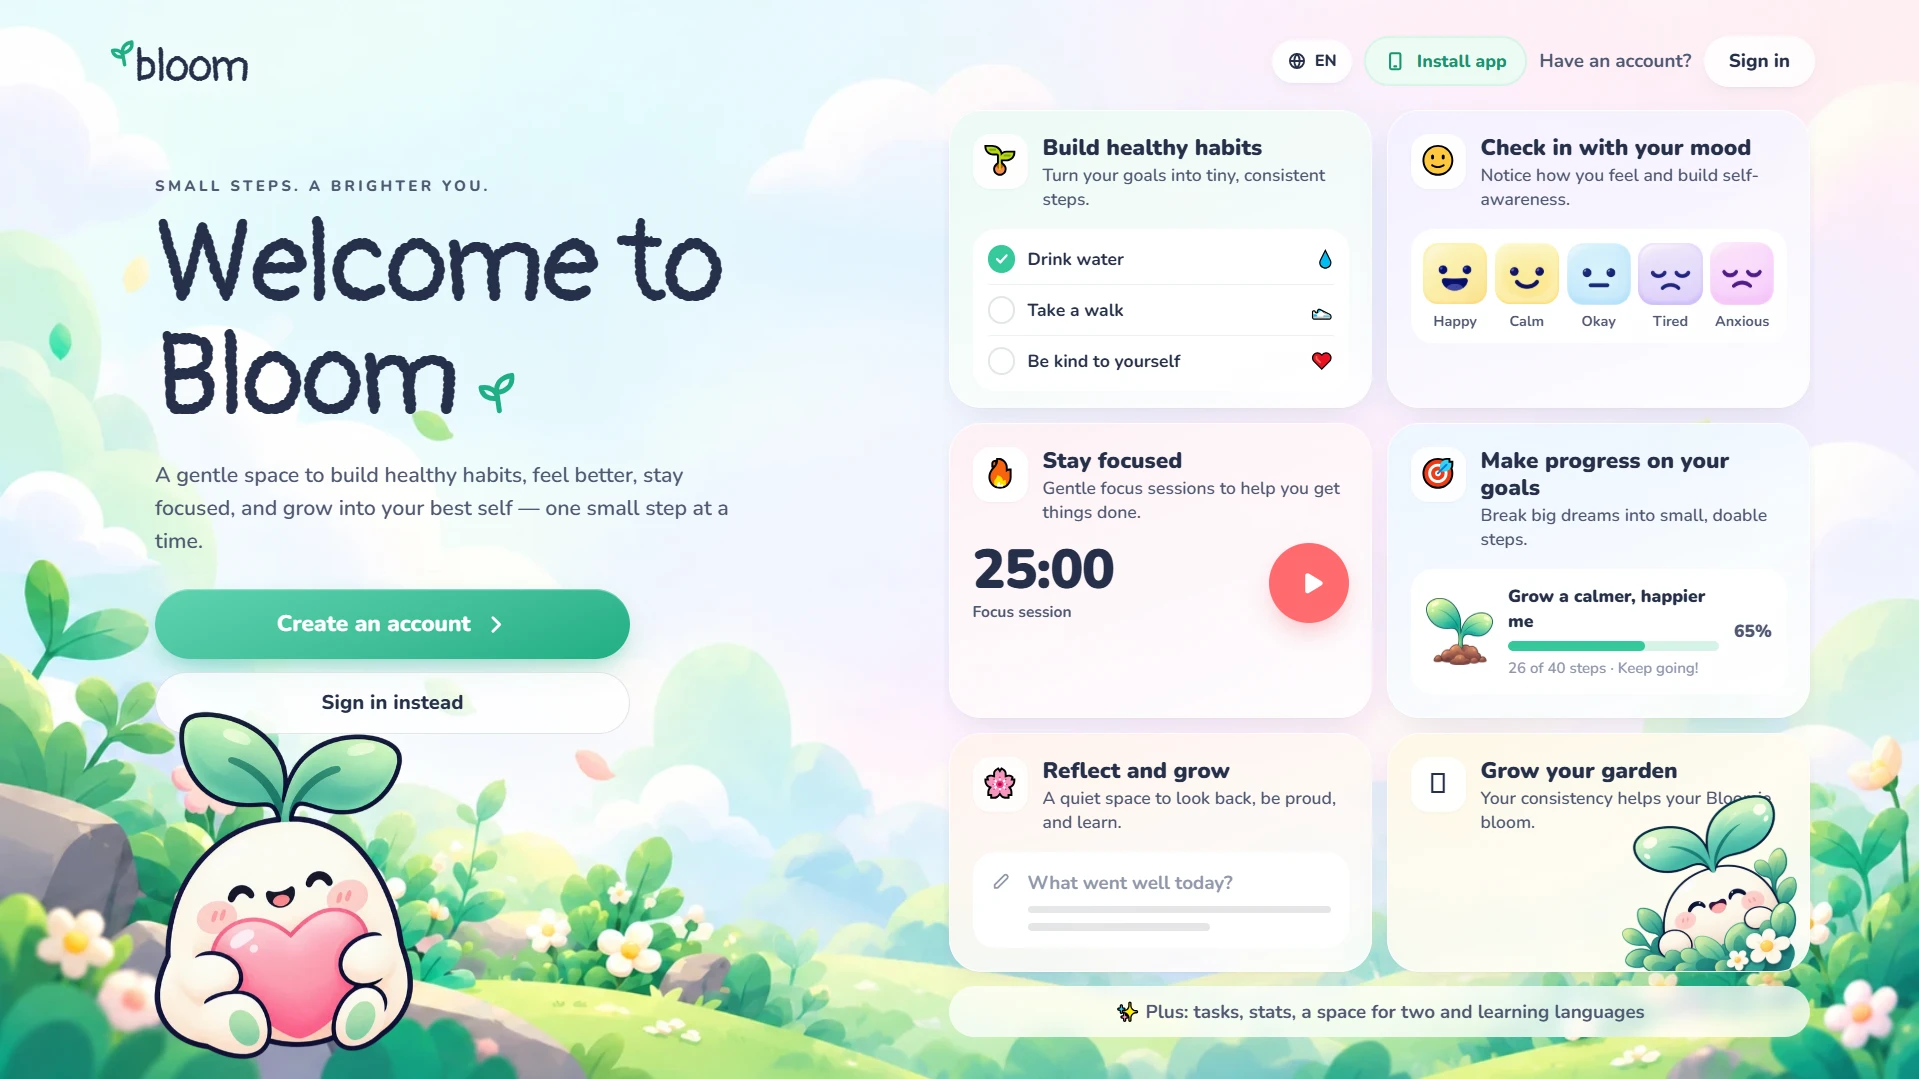
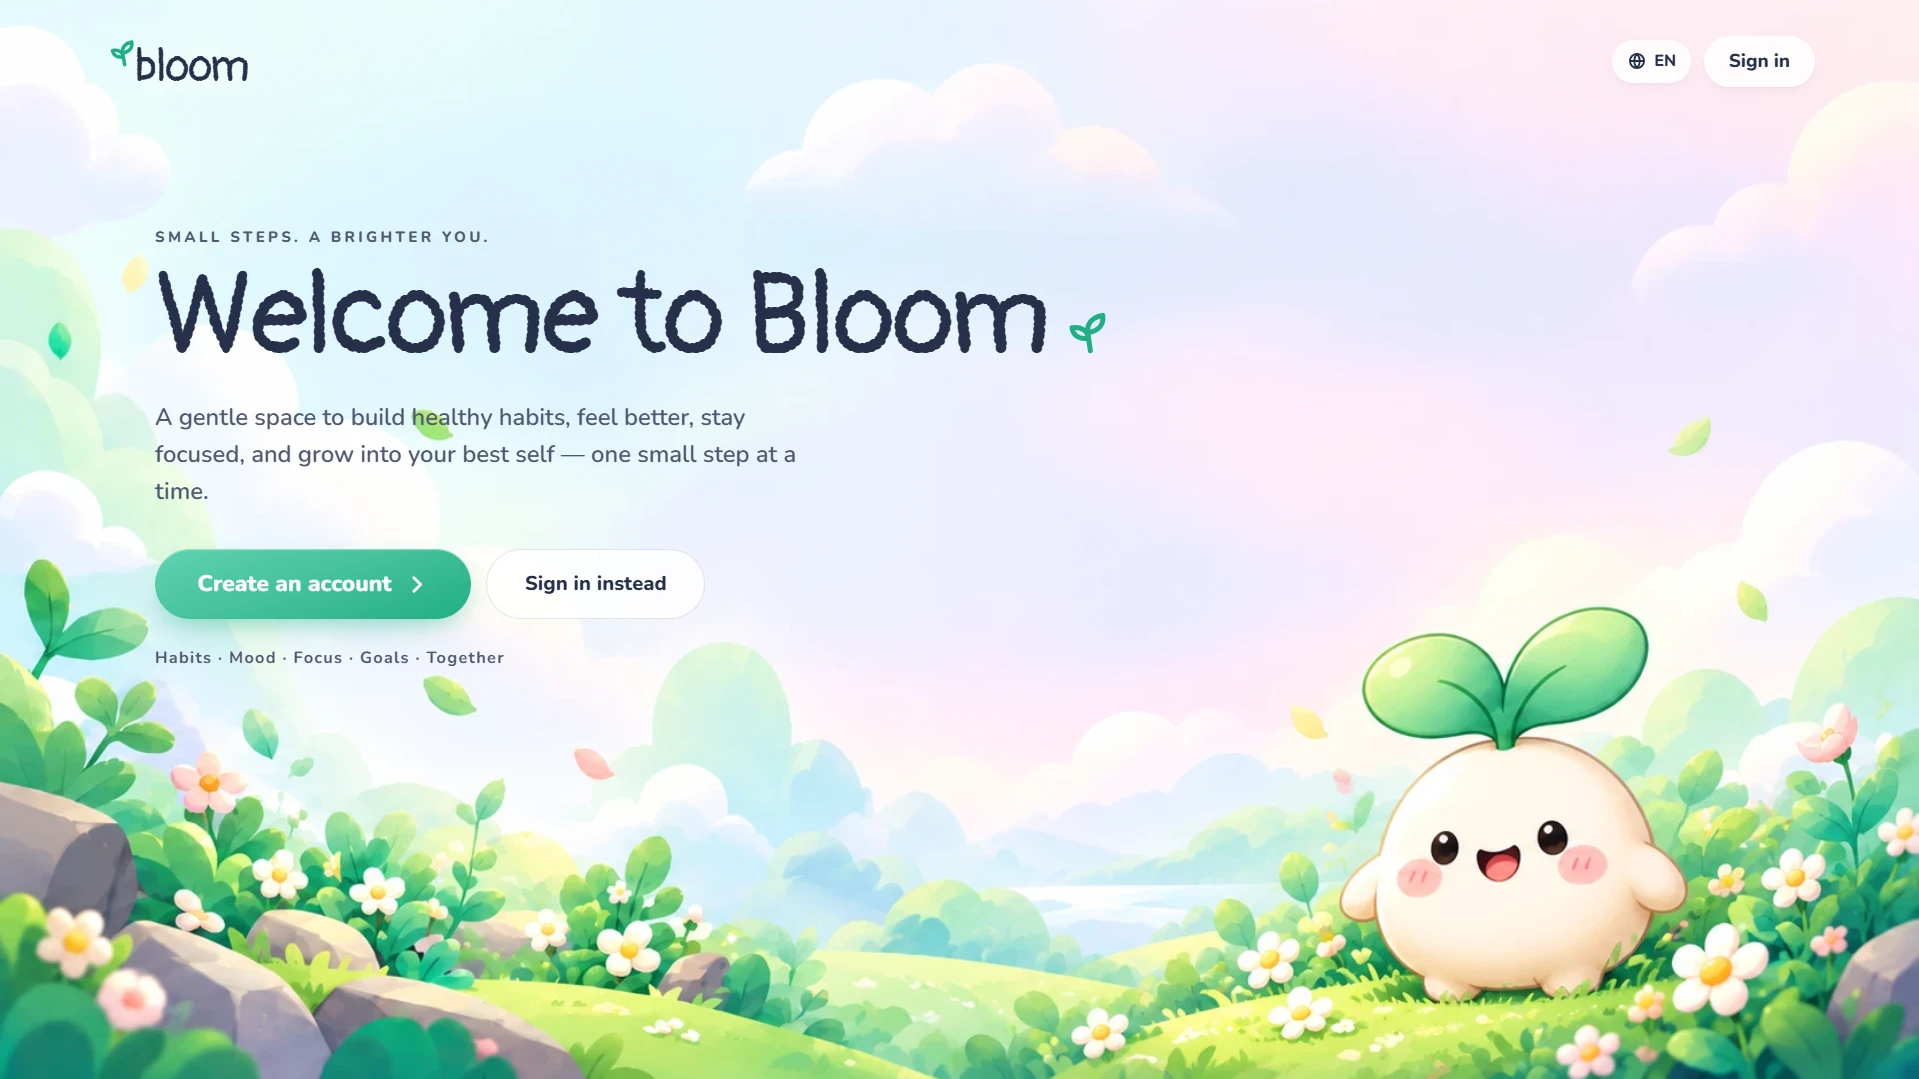
Projects: new Bloom screenshot and bloom-love.online link

diff --git a/components/Projects.tsx b/components/Projects.tsx
@@ -21,7 +21,7 @@ const projects = [
     title: "Bloom",
     tags: ["React", "Supabase", "PWA"],
     image: "/images/projects/bloom.webp",
-    url: "https://bloom-app-bice.vercel.app",
+    url: "https://bloom-love.online",
     pos: "25% 50%",
     year: "2026",
     role: "Fullstack",
